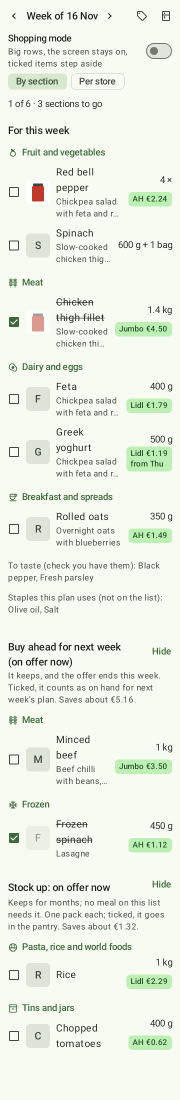
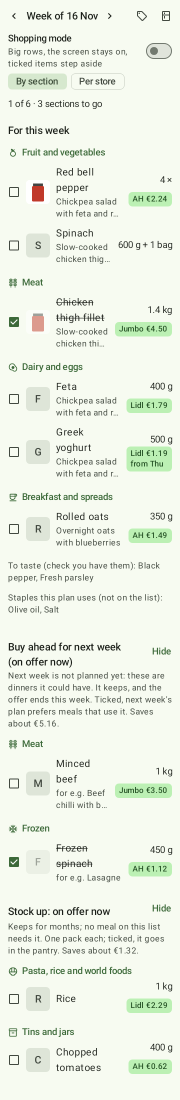
Buy ahead says when its meals are only a suggestion (#104)
* Buy ahead says when its meals are only a suggestion

* Fix the Dutch money in the provisional hint test, re-record the shopping pictures

The fake backend's next week is not planned, so every picture with buy-ahead now shows the provisional hint and the "for e.g." meals.

---------

Changed region(s): [[0.0278, 0.5873, 0.9722, 0.9891]]

diff --git a/composeApp/src/commonMain/kotlin/dev/tobins/mealplanner/app/ShoppingScreen.kt b/composeApp/src/commonMain/kotlin/dev/tobins/mealplanner/app/ShoppingScreen.kt
@@ -202,7 +202,7 @@ internal fun ShoppingScreen(
         }
         val shown = adviceAt(texts.items(list), store, shops, today)
         if (shown.isEmpty()) return
-        item(key = key) { AdviceHeader(t(texts.title), adviceHint(texts, shown, shops, today, t)) { dismiss(texts.group, true) } }
+        item(key = key) { AdviceHeader(t(texts.title), adviceHint(texts, shown, shops, today, t, provisional = list.buyAheadProvisional)) { dismiss(texts.group, true) } }
         val id = "${texts.group.path}:"
         if (byStore) {
             storeOverview(shown, shops, today).stores.forEach { group ->
@@ -260,12 +260,13 @@ internal fun ShoppingScreen(
             is Load.Ready -> {
                 val list = current.value
                 @Composable
-                fun row(item: ShoppingItem, offer: Offer? = item.bestOffer(shops, today)) = ShoppingRow(
+                fun row(item: ShoppingItem, offer: Offer? = item.bestOffer(shops, today), suggested: Boolean = false) = ShoppingRow(
                     item,
                     offer,
                     shops,
                     today,
                     shoppingMode,
+                    suggested,
                     onToggle = { if (shoppingMode) tickWithUndo(item) else tick(item.key, !item.checked) },
                     onOfferClick = {
                         scope.launch {
@@ -365,7 +366,11 @@ internal fun ShoppingScreen(
                             )
                         }
                     }
-                    AdviceTexts.entries.forEach { adviceGroup(it, list, store, byStore = view == ShoppingView.STORE && store == null) { item -> row(item) } }
+                    AdviceTexts.entries.forEach { texts ->
+                        adviceGroup(texts, list, store, byStore = view == ShoppingView.STORE && store == null) { item ->
+                            row(item, suggested = texts == AdviceTexts.BUY_AHEAD && list.buyAheadProvisional)
+                        }
+                    }
                 }
             }
         }
@@ -565,7 +570,7 @@ private fun ToggleHeader(title: String, open: Boolean, onToggle: () -> Unit) {
 }
 
 @Composable
-private fun ShoppingRow(item: ShoppingItem, offer: Offer?, shops: Set<Store>, today: String, shoppingMode: Boolean, onToggle: () -> Unit, onOfferClick: () -> Unit) {
+private fun ShoppingRow(item: ShoppingItem, offer: Offer?, shops: Set<Store>, today: String, shoppingMode: Boolean, suggested: Boolean, onToggle: () -> Unit, onOfferClick: () -> Unit) {
     val t = LocalStrings.current
     Row(
         Modifier.fillMaxWidth()
@@ -584,10 +589,10 @@ private fun ShoppingRow(item: ShoppingItem, offer: Offer?, shops: Set<Store>, to
                 maxLines = 2,
                 overflow = TextOverflow.Ellipsis,
             )
-            // Stock-up advice is for no meal in particular.
+            // Stock-up advice is for no meal in particular; a provisional buy-ahead meal is only an example.
             if (item.recipes.isNotEmpty()) {
                 Text(
-                    item.recipes.joinToString(),
+                    item.recipes.joinToString().let { if (suggested) t(Msg.SUGGESTED_MEALS, it) else it },
                     style = MaterialTheme.typography.bodySmall,
                     color = MaterialTheme.colorScheme.onSurfaceVariant,
                     maxLines = 2,

diff --git a/server/src/main/kotlin/dev/tobins/mealplanner/server/ShoppingListRepository.kt b/server/src/main/kotlin/dev/tobins/mealplanner/server/ShoppingListRepository.kt
@@ -91,7 +91,8 @@ class ShoppingListRepository(
             checked = checked,
         )
         // Buying ahead goes with a plan: without meals this week there is nothing to shop with.
-        val buyAhead = if (wanted.buyAhead && !buyAheadDismissed && meals.isNotEmpty()) buyAhead(start, meals, advisor) else emptyList()
+        val ahead = if (wanted.buyAhead && !buyAheadDismissed && meals.isNotEmpty()) buyAhead(start, meals, advisor) else BuyAheadAdvice(emptyList(), false)
+        val buyAhead = ahead.items
         val stockUp = if (wanted.stockUp && !stockUpDismissed) {
             val listed = rows.mapNotNullTo(HashSet()) { it.ingredient?.id } +
                 buyAhead.mapNotNull { (ShoppingKey.parse(it.key) as? ShoppingKey.Ahead)?.id }
@@ -108,6 +109,7 @@ class ShoppingListRepository(
             stockUp = stockUp,
             buyAheadDismissed = buyAheadDismissed,
             stockUpDismissed = stockUpDismissed,
+            buyAheadProvisional = ahead.provisional,
         )
     }
 
@@ -137,19 +139,22 @@ class ShoppingListRepository(
     private fun planned(meals: List<PlannedMeal>): List<PlannedRecipe> =
         meals.groupBy { it.recipeId }.map { (id, ofRecipe) -> PlannedRecipe(id, ofRecipe.first().title, ofRecipe.sumOf { it.portions }) }
 
+    /** The buy-ahead items, and whether their meals are a provisional pick rather than next week's plan. */
+    private class BuyAheadAdvice(val items: List<ShoppingItem>, val provisional: Boolean)
+
     /**
      * What to buy now for next week's meals. When next week is planned already, those are its
      * meals as planned; otherwise a provisional choice among the dinners the planner could pick
      * then ([BuyAhead.provisional]), one batch each. Nothing of it is stored: next week is planned
      * as usual later, with what was ticked here on hand.
      */
-    private fun buyAhead(start: LocalDate, thisWeek: List<PlannedMeal>, advisor: ShoppingAdvisor): List<ShoppingItem> {
+    private fun buyAhead(start: LocalDate, thisWeek: List<PlannedMeal>, advisor: ShoppingAdvisor): BuyAheadAdvice {
         val next = start.plusDays(DAYS.toLong())
         val nextWeek = plans.meals(next)
         val (meals, ratings) = if (nextWeek.isNotEmpty()) {
             planned(nextWeek) to emptyMap()
         } else {
-            val targets = profiles.state().targets ?: return emptyList()
+            val targets = profiles.state().targets ?: return BuyAheadAdvice(emptyList(), false)
             val candidates = BuyAhead.provisional(
                 recipes.planCandidates(dislikes = profiles.profile()?.dislikes.orEmpty()),
                 targets,
@@ -157,13 +162,14 @@ class ShoppingListRepository(
             )
             candidates.map { PlannedRecipe(it.recipeId, it.title, it.servings.toDouble()) } to candidates.associate { it.recipeId to it.rating }
         }
-        return advisor.buyAhead(
+        val items = advisor.buyAhead(
             meals,
             recipes.linesWithIngredients(meals.map { it.recipeId }),
             ratings,
             onHand = ingredients.onHandFor(next),
             onOfferNextWeek = plans.onOffer(next),
         )
+        return BuyAheadAdvice(items, provisional = nextWeek.isEmpty())
     }
 
     /**

diff --git a/composeApp/src/commonTest/kotlin/dev/tobins/mealplanner/app/ShoppingAdviceTest.kt b/composeApp/src/commonTest/kotlin/dev/tobins/mealplanner/app/ShoppingAdviceTest.kt
@@ -81,6 +81,25 @@ class ShoppingAdviceTest {
     }
 
     @Test
+    fun theHintSaysWhenNextWeekIsNotPlannedYet() {
+        assertEquals(
+            "Next week is not planned yet: these are dinners it could have. It keeps, and the offer ends this week. Ticked, next week's plan prefers meals that use it. Saves about €4.50.",
+            adviceHint(AdviceTexts.BUY_AHEAD, listOf(beef, spinach), all, today, Strings.English, provisional = true),
+        )
+        assertEquals(
+            "Volgende week is nog niet gepland: dit zijn maaltijden die het kan krijgen. Het blijft goed en de aanbieding stopt deze week. Afgevinkt kiest het plan van volgende week liever maaltijden die het gebruiken. Bespaart ongeveer €4,50.",
+            adviceHint(AdviceTexts.BUY_AHEAD, listOf(beef, spinach), all, today, Strings.Dutch, provisional = true),
+        )
+        // Stock-up advice has no meals, so nothing changes for it.
+        assertEquals(
+            adviceHint(AdviceTexts.STOCK_UP, listOf(rice), all, today, Strings.English),
+            adviceHint(AdviceTexts.STOCK_UP, listOf(rice), all, today, Strings.English, provisional = true),
+        )
+        assertEquals("for e.g. Beef chilli, Lasagne", Strings.English(Msg.SUGGESTED_MEALS, "Beef chilli, Lasagne"))
+        assertEquals("bijv. voor Beef chilli, Lasagne", Strings.Dutch(Msg.SUGGESTED_MEALS, "Beef chilli, Lasagne"))
+    }
+
+    @Test
     fun ticksAreLaidOverTheAdviceToo() {
         val list = week.copy(buyAhead = listOf(beef), stockUp = listOf(rice))
         val ticked = list.withTicks(mapOf("ahead:i2" to true, "stock:i4" to true, "i1" to true))

diff --git a/composeApp/src/commonMain/kotlin/dev/tobins/mealplanner/app/ShoppingAdvice.kt b/composeApp/src/commonMain/kotlin/dev/tobins/mealplanner/app/ShoppingAdvice.kt
@@ -38,7 +38,14 @@ fun adviceAt(items: List<ShoppingItem>, store: Store?, shops: Set<Store>, today:
 fun ShoppingList.hasAdvice(store: Store?, shops: Set<Store>, today: String): Boolean =
     AdviceTexts.entries.any { it.dismissed(this) || adviceAt(it.items(this), store, shops, today).isNotEmpty() }
 
-/** The hint under an advice group's title: what it is for, and what its offers save when that is known. */
-fun adviceHint(texts: AdviceTexts, items: List<ShoppingItem>, shops: Set<Store>, today: String, strings: Strings): String =
-    listOfNotNull(strings(texts.hint), savingOf(items, shops, today)?.let { strings(Msg.ADVICE_SAVING, formatEuro(it, strings.locale)) })
+/**
+ * The hint under an advice group's title: what it is for, and what its offers save when that is known.
+ * With [provisional] (next week has no plan, see [ShoppingList.buyAheadProvisional]) the buy-ahead
+ * hint says its meals are only dinners next week could have.
+ */
+fun adviceHint(texts: AdviceTexts, items: List<ShoppingItem>, shops: Set<Store>, today: String, strings: Strings, provisional: Boolean = false): String =
+    listOfNotNull(
+        strings(if (provisional && texts == AdviceTexts.BUY_AHEAD) Msg.BUY_AHEAD_HINT_PROVISIONAL else texts.hint),
+        savingOf(items, shops, today)?.let { strings(Msg.ADVICE_SAVING, formatEuro(it, strings.locale)) },
+    )
         .joinToString(" ")

diff --git a/server/src/test/kotlin/dev/tobins/mealplanner/server/BuyAheadTest.kt b/server/src/test/kotlin/dev/tobins/mealplanner/server/BuyAheadTest.kt
@@ -195,6 +195,27 @@ class BuyAheadTest {
     }
 
     @Test
+    fun theAdviceSaysWhenItsMealsAreOnlyASuggestion() = testApplication {
+        val http = start().ready()
+        assertTrue(http.list().buyAheadProvisional, "next week has no plan: the meals are a provisional pick")
+
+        http.post("/api/plans/$nextWeek/generate")
+        assertFalse(http.list().buyAheadProvisional, "next week is planned: the meals are its own")
+
+    }
+
+    @Test
+    fun noSuggestionIsFlaggedWhenBuyAheadIsDismissedOrOff() = testApplication {
+        val http = start().ready()
+        http.put("/api/plans/$week/shopping/dismissed/buy-ahead")
+        assertFalse(http.list().buyAheadProvisional, "dismissed")
+        http.delete("/api/plans/$week/shopping/dismissed/buy-ahead")
+        assertTrue(http.list().buyAheadProvisional)
+        http.put("/api/shopping-advice") { setBody(ShoppingAdvice(buyAhead = false)) }
+        assertFalse(http.list().buyAheadProvisional, "switched off")
+    }
+
+    @Test
     fun aTickedBuyAheadItemIsOnHandNextWeekAndPullsItsMealsIntoThatPlan() = testApplication {
         val http = start().ready()
         val key = http.list().buyAhead.single().key

diff --git a/composeApp/src/commonMain/kotlin/dev/tobins/mealplanner/app/Messages.kt b/composeApp/src/commonMain/kotlin/dev/tobins/mealplanner/app/Messages.kt
@@ -397,6 +397,11 @@ enum class Msg(private val english: String, private val dutch: String) {
         "It keeps, and the offer ends this week. Ticked, it counts as on hand for next week's plan.",
         "Het blijft goed en de aanbieding stopt deze week. Afgevinkt telt het als in huis voor het plan van volgende week.",
     ),
+    BUY_AHEAD_HINT_PROVISIONAL(
+        "Next week is not planned yet: these are dinners it could have. It keeps, and the offer ends this week. Ticked, next week's plan prefers meals that use it.",
+        "Volgende week is nog niet gepland: dit zijn maaltijden die het kan krijgen. Het blijft goed en de aanbieding stopt deze week. Afgevinkt kiest het plan van volgende week liever maaltijden die het gebruiken.",
+    ),
+    SUGGESTED_MEALS("for e.g. {0}", "bijv. voor {0}"),
     STOCK_UP_TITLE("Stock up: on offer now", "Inslaan: nu in de aanbieding"),
     STOCK_UP_HINT(
         "Keeps for months; no meal on this list needs it. One pack each; ticked, it goes in the pantry.",

diff --git a/composeApp/src/androidHostTest/kotlin/dev/tobins/mealplanner/app/FakeBackend.kt b/composeApp/src/androidHostTest/kotlin/dev/tobins/mealplanner/app/FakeBackend.kt
@@ -191,6 +191,7 @@ class FakeBackend(
                     offers = listOf(deal(Store.AH, "AH Spinazie diepvries 450 g", "25% korting", 1.12, 0.75)), regularPrice = 1.49,
                 ),
             ),
+            buyAheadProvisional = true,
             stockUp = listOf(
                 item("stock:i23", "Rice", 1000.0, null, ShopSection.WORLD, null, offers = listOf(deal(Store.LIDL, "Basmati rijst 1 kg", "1+1 gratis", 2.29, 0.5)), regularPrice = 2.29),
                 item("stock:i24", "Chopped tomatoes", 400.0, null, ShopSection.TINS, null, offers = listOf(deal(Store.AH, "AH Tomatenblokjes 400 g", "2e halve prijs", 0.62, 0.75)), regularPrice = 0.69),

diff --git a/shared/src/commonMain/kotlin/dev/tobins/mealplanner/api/Plans.kt b/shared/src/commonMain/kotlin/dev/tobins/mealplanner/api/Plans.kt
@@ -141,6 +141,12 @@ data class ShoppingList(
     val buyAheadDismissed: Boolean = false,
     /** True when [stockUp] was dismissed for this week (and is empty for that reason). */
     val stockUpDismissed: Boolean = false,
+    /**
+     * True when the meals named in [buyAhead] are only a suggestion: next week has no plan yet, so
+     * they are dinners the planner could pick, not ones it has picked. False when next week is
+     * planned, and when buy-ahead is off or dismissed. Meaningless when [buyAhead] is empty.
+     */
+    val buyAheadProvisional: Boolean = false,
 )
 
 @Serializable

diff --git a/docs/data-sources.md b/docs/data-sources.md
@@ -156,6 +156,10 @@ them qualifies when it keeps, is on offer this week but not (as far as known) ne
 staple and not on hand, and its saving is known. The meals saving at least €0.50 that way, at most
 three, most saved first (`BuyAhead.choose`), give the list: what one batch of each needs, with the
 meals named. No random choice is involved, so the list stays the same while it is ticked off.
+Nothing of the provisional choice is stored, so `ShoppingList.buyAheadProvisional` is true while next
+week has no plan: the app then says the meals are dinners next week could have (rows read "for e.g."
+before them) and not what it will cook. It is false once next week is planned, and when buy ahead is
+switched off or dismissed.
 
 **Stock up** (`ShoppingList.stockUp`, keys `stock:i<id>`): ingredients that keep and are a staple, or
 that a recipe uses and keep for months (so not fresh meat), on offer now, not on hand and not on the
